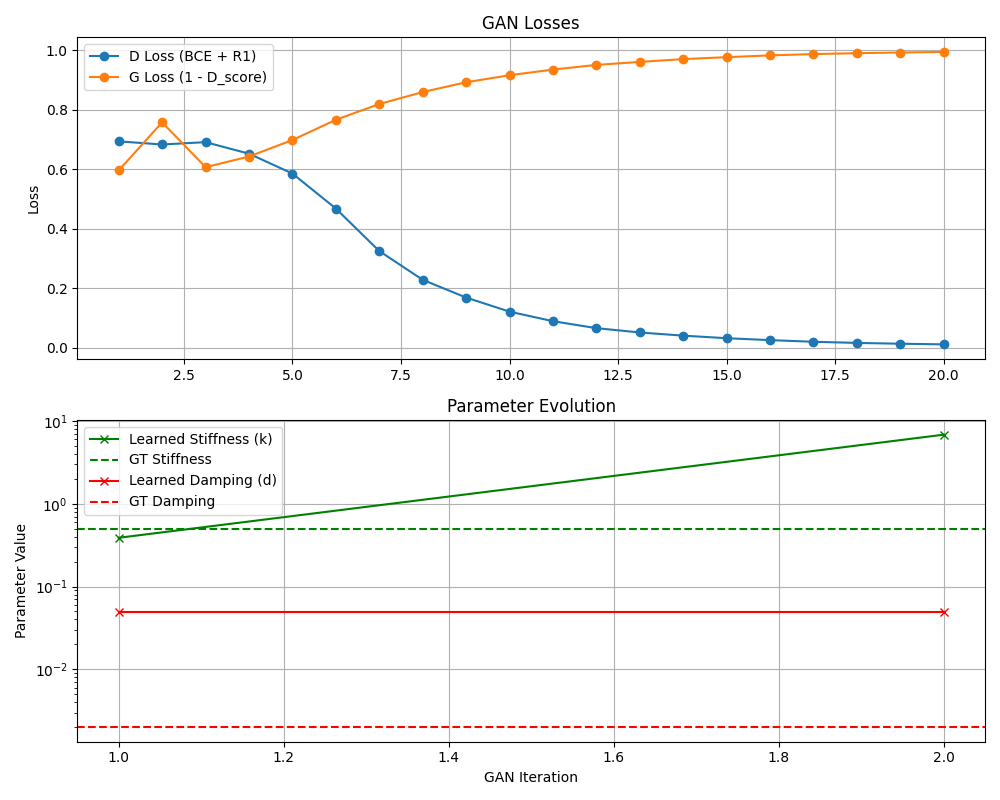
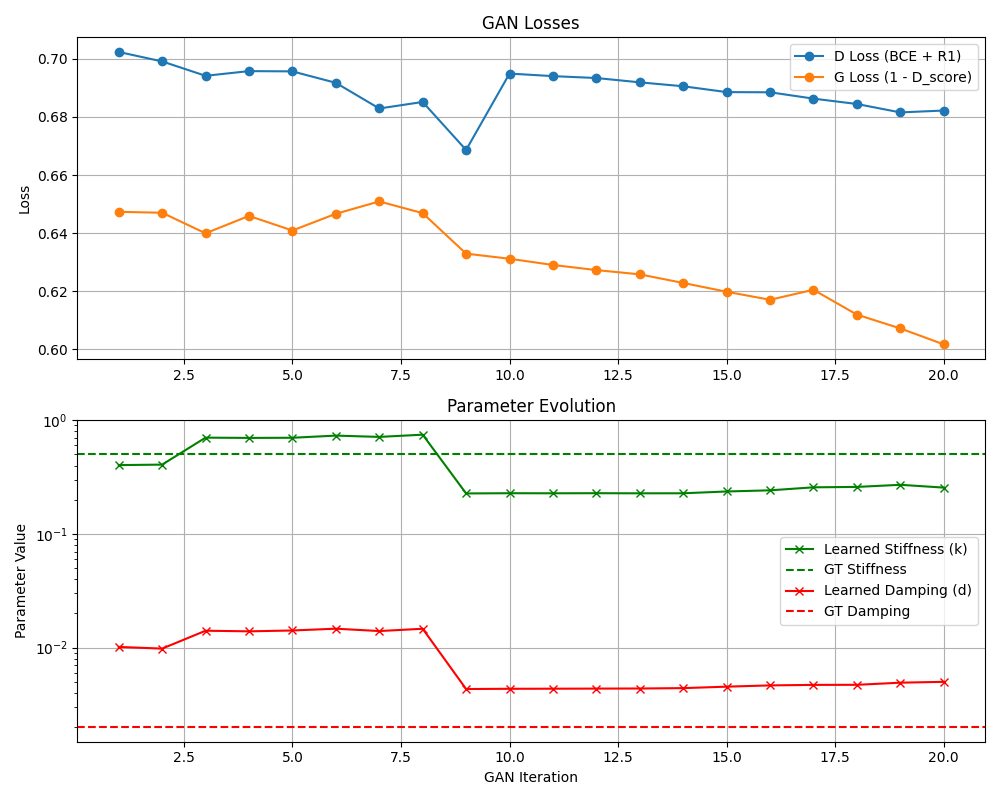
small chagnes

diff --git a/adversarial_training.py b/adversarial_training.py
@@ -28,15 +28,15 @@ def get_default_config():
         "goal_dist_std": [1.0, 0.0, 0.0],
         "gan_iterations": 20,
         "d_epochs": 10,
-        "d_lr": 0.00025,
+        "d_lr": 0.000025,
         "d_batch_size": 16,
         "d_r1_gamma": 1e-3,          # ← NEW: set to 0.0 to disable R1 reg
         "g_optim_algo": "GD",
-        "g_max_iters": 20,
+        "g_max_iters": 10,
         "g_lr": 0.05,
         "g_eps": 0.0001,
         "g_reg": 1e-1,
-        "g_l2_weight": 1e-5,
+        "g_l2_weight": 1e-8,
         "init_k": 0.4,
         "init_d": 0.01,
         "gt_k": 0.5,